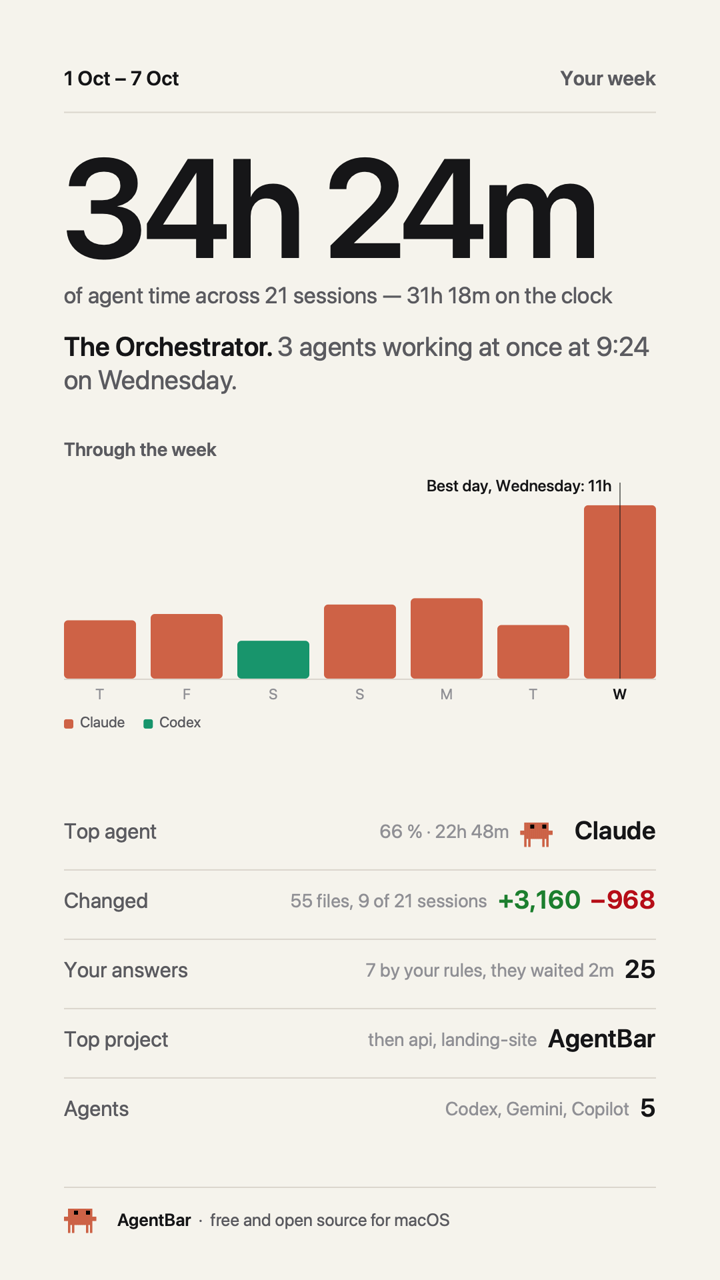
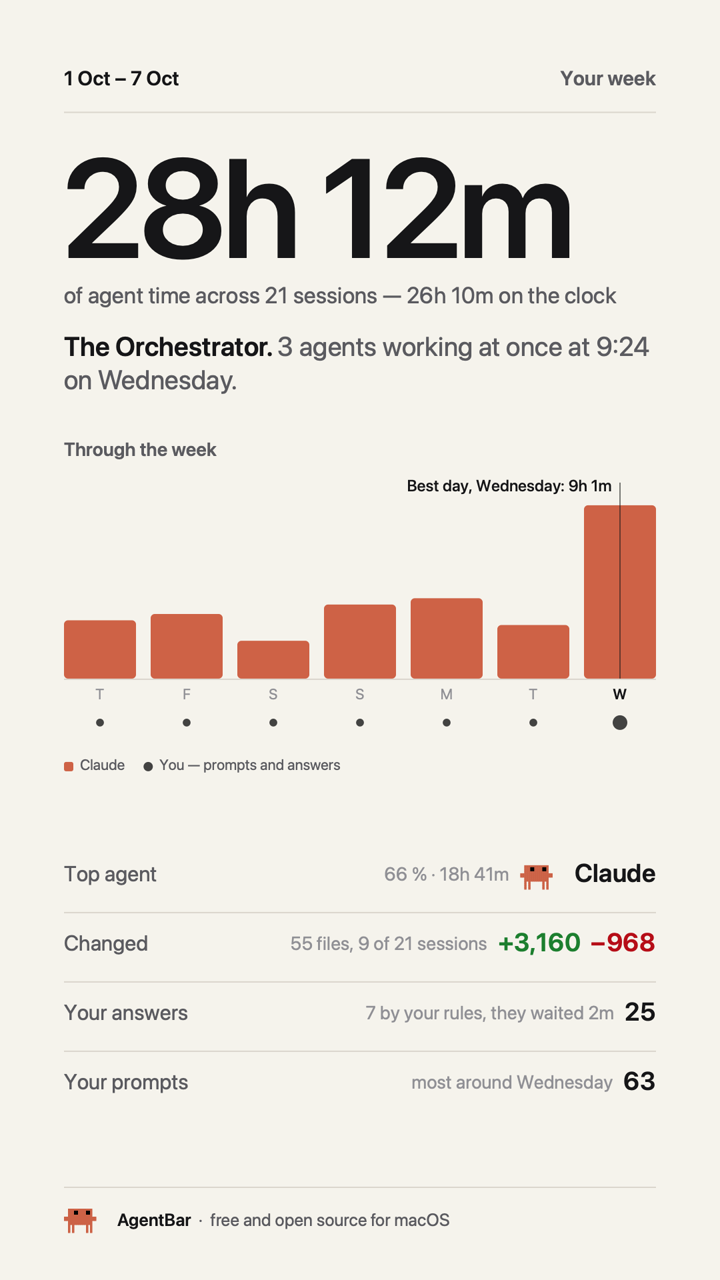
feat(wrap): you through the day, more on the card, and two buttons instead of seven controls

diff --git a/Sources/AgentBar/WrapWindow.swift b/Sources/AgentBar/WrapWindow.swift
@@ -13,9 +13,12 @@ final class WrapWindow: NSObject, NSWindowDelegate {
     private var window: NSWindow?
     private var player: WrapCardView!
     private var rangeControl: NSSegmentedControl!
-    private var namesBox: NSButton!
     private var status: NSTextField!
-    private var exportButtons: [NSButton] = []
+    private var copyButton: NSButton!
+    private var shareButton: NSButton!
+    /// Off by default: a card you post should not name your private repositories.
+    private var includeNames = false
+    private var loading = 0
 
     private(set) var range: DayWrap.Range = .today
 
@@ -27,22 +30,33 @@ final class WrapWindow: NSObject, NSWindowDelegate {
         NSApp.activate(ignoringOtherApps: true)
         window?.makeKeyAndOrderFront(nil)
         window?.makeFirstResponder(player)
-        player.build()
     }
 
     @objc func openFromMenu(_ sender: Any?) { show(.today) }
 
+    /// The recap is read off the main queue — the transcripts behind the agent
+    /// time can be megabytes — and the card builds once it is in.
     private func reload() {
-        let wrap = DayWrap.make(range, history: HistoryStore.read(), ledger: DecisionLedger.read())
-        player.load(wrap)
-        status.stringValue = ""
+        loading += 1
+        let ticket = loading, range = self.range
+        say("")
+        DispatchQueue.global(qos: .userInitiated).async {
+            let wrap = DayWrap.load(range)
+            DispatchQueue.main.async { [weak self] in
+                guard let self, ticket == self.loading else { return }
+                self.player.load(wrap)
+                self.player.build()
+            }
+        }
     }
 
     // MARK: - Build
 
+    private static let barHeight: CGFloat = 60
+
     private func build() {
         let size = WrapCardView.size
-        let barHeight: CGFloat = 92
+        let barHeight = Self.barHeight
         let w = NSWindow(contentRect: NSRect(x: 0, y: 0, width: size.width, height: size.height + barHeight),
                          styleMask: [.titled, .closable, .miniaturizable, .fullSizeContentView],
                          backing: .buffered, defer: false)
@@ -59,58 +73,91 @@ final class WrapWindow: NSObject, NSWindowDelegate {
         player = WrapCardView(frame: NSRect(origin: NSPoint(x: 0, y: barHeight), size: size))
         player.autoresizingMask = [.width, .height]
 
-        rangeControl = NSSegmentedControl(labels: ["Today", "This week"], trackingMode: .selectOne,
+        // The bar: which recap on the left, what to do with it on the right — two
+        // buttons, with every way out of the window behind the second.
+        rangeControl = NSSegmentedControl(labels: ["Today", "This Week"], trackingMode: .selectOne,
                                           target: self, action: #selector(rangeChanged))
-        rangeControl.controlSize = .small
-        namesBox = NSButton(checkboxWithTitle: "Project names in exports", target: nil, action: nil)
-        namesBox.controlSize = .small
-        namesBox.font = .systemFont(ofSize: 11)
-        namesBox.state = .off
-        namesBox.toolTip = "Off by default: a card you post should not name your private repositories."
+        rangeControl.segmentStyle = .rounded
+        rangeControl.controlSize = .regular
+        rangeControl.setWidth(76, forSegment: 0)
+        rangeControl.setWidth(88, forSegment: 1)
 
-        func button(_ title: String, _ symbol: String, _ action: Selector, _ tip: String) -> NSButton {
-            let b = NSButton(title: title, image: NSImage(systemSymbolName: symbol, accessibilityDescription: nil)!,
-                             target: self, action: action)
-            b.imagePosition = .imageLeading
-            b.controlSize = .small
-            b.bezelStyle = .rounded
-            b.toolTip = tip
-            return b
-        }
-        exportButtons = [
-            button("Copy", "doc.on.doc", #selector(copyCard), "Copy the card as an image (⌘C)"),
-            button("Image", "photo", #selector(saveImage), "Save the card as a PNG — story or square"),
-            button("Video", "film", #selector(saveVideo), "Save the card building itself, as a 6-second MP4"),
-            button("GIF", "sparkles.rectangle.stack", #selector(saveGIF), "Save the card building itself, as a looping GIF"),
-            button("Share", "square.and.arrow.up", #selector(share(_:)), "Share the card"),
-        ]
+        copyButton = NSButton(title: "Copy", target: self, action: #selector(copyCard))
+        copyButton.bezelStyle = .rounded
+        copyButton.controlSize = .regular
+        copyButton.toolTip = "Copy the card as an image (⌘C)"
+        shareButton = NSButton(title: "Share", image: NSImage(systemSymbolName: "square.and.arrow.up",
+                                                              accessibilityDescription: nil)!,
+                               target: self, action: #selector(showShareMenu(_:)))
+        shareButton.imagePosition = .imageLeading
+        shareButton.bezelStyle = .rounded
+        shareButton.controlSize = .regular
+        shareButton.toolTip = "Save the card or a video of it, or send it somewhere"
+
         status = NSTextField(labelWithString: "")
         status.font = .systemFont(ofSize: 11)
         status.textColor = .secondaryLabelColor
+        status.lineBreakMode = .byTruncatingTail
+        status.setContentCompressionResistancePriority(.defaultLow, for: .horizontal)
 
-        let top = NSStackView(views: [rangeControl, NSView(), namesBox])
-        top.orientation = .horizontal
-        let buttons = NSStackView(views: exportButtons + [status])
-        buttons.orientation = .horizontal
-        buttons.spacing = 6
-        let bar = NSStackView(views: [top, buttons])
-        bar.orientation = .vertical
-        bar.alignment = .leading
+        let spacer = NSView()
+        spacer.setContentHuggingPriority(.init(1), for: .horizontal)
+        let bar = NSStackView(views: [rangeControl, status, spacer, copyButton, shareButton])
+        bar.orientation = .horizontal
+        bar.alignment = .centerY
         bar.spacing = 8
-        bar.edgeInsets = NSEdgeInsets(top: 12, left: 14, bottom: 12, right: 14)
-        bar.frame = NSRect(x: 0, y: 0, width: size.width, height: barHeight)
-        bar.autoresizingMask = [.width]
-        top.translatesAutoresizingMaskIntoConstraints = false
-        top.widthAnchor.constraint(equalToConstant: size.width - 28).isActive = true
+        bar.setCustomSpacing(12, after: rangeControl)
+        bar.translatesAutoresizingMaskIntoConstraints = false
+
+        // A hairline between the card and the bar, the card's own.
+        let line = NSBox(frame: NSRect(x: 16, y: barHeight - 1, width: size.width - 32, height: 1))
+        line.boxType = .custom
+        line.borderWidth = 0
+        line.fillColor = WrapStyle.hairline
+        line.autoresizingMask = [.width]
 
         let content = NSView(frame: NSRect(x: 0, y: 0, width: size.width, height: size.height + barHeight))
         content.addSubview(player)
         content.addSubview(bar)
+        content.addSubview(line)
+        NSLayoutConstraint.activate([
+            bar.leadingAnchor.constraint(equalTo: content.leadingAnchor, constant: 16),
+            bar.trailingAnchor.constraint(equalTo: content.trailingAnchor, constant: -16),
+            bar.bottomAnchor.constraint(equalTo: content.bottomAnchor),
+            bar.heightAnchor.constraint(equalToConstant: barHeight),
+        ])
         w.contentView = content
         w.contentAspectRatio = NSSize(width: size.width, height: size.height + barHeight)
         window = w
         player.onCopy = { [weak self] in self?.copyCard() }
     }
+
+    /// Everything that takes the card somewhere, in one menu.
+    @objc private func showShareMenu(_ sender: NSButton) {
+        let menu = NSMenu()
+        func item(_ title: String, _ action: Selector, _ symbol: String, _ shape: String? = nil) {
+            let i = NSMenuItem(title: title, action: action, keyEquivalent: "")
+            i.target = self
+            i.image = NSImage(systemSymbolName: symbol, accessibilityDescription: nil)
+            i.representedObject = shape
+            menu.addItem(i)
+        }
+        item("Share…", #selector(shareCard), "square.and.arrow.up")
+        menu.addItem(.separator())
+        item("Save Image…", #selector(saveImageShape(_:)), "photo", "story")
+        item("Save Square Image…", #selector(saveImageShape(_:)), "square", "square")
+        item("Save Video…", #selector(saveVideo), "film")
+        item("Save GIF…", #selector(saveGIF), "sparkles.rectangle.stack")
+        menu.addItem(.separator())
+        let names = NSMenuItem(title: "Include Project Names", action: #selector(toggleNames), keyEquivalent: "")
+        names.target = self
+        names.state = includeNames ? .on : .off
+        names.toolTip = "Off by default: a card you post should not name your private repositories."
+        menu.addItem(names)
+        menu.popUp(positioning: nil, at: NSPoint(x: 0, y: sender.bounds.height + 4), in: sender)
+    }
+
+    @objc private func toggleNames() { includeNames.toggle() }
 
     // MARK: - Window
 
@@ -120,7 +167,6 @@ final class WrapWindow: NSObject, NSWindowDelegate {
     @objc private func rangeChanged() {
         range = rangeControl.selectedSegment == 0 ? .today : .week
         reload()
-        player.build()
     }
 
     // MARK: - Export
@@ -128,7 +174,7 @@ final class WrapWindow: NSObject, NSWindowDelegate {
     /// The recap as it leaves the Mac: without project names and tasks unless the
     /// box says otherwise.
     private var exported: DayWrap {
-        namesBox.state == .on ? player.wrap : player.wrap.shareSafe()
+        includeNames ? player.wrap : player.wrap.shareSafe()
     }
 
     @objc private func copyCard() {
@@ -137,20 +183,6 @@ final class WrapWindow: NSObject, NSWindowDelegate {
         pb.clearContents()
         pb.setData(data, forType: .png)
         say("Card copied — paste it anywhere.")
-    }
-
-    @objc private func saveImage() {
-        let menu = NSMenu()
-        for (title, shape) in [("Story card (1080 × 1920)", WrapExport.Shape.story),
-                               ("Square card (1080 × 1080)", .square)] {
-            let item = NSMenuItem(title: title, action: #selector(saveImageShape(_:)), keyEquivalent: "")
-            item.target = self
-            item.representedObject = shape == .story ? "story" : "square"
-            menu.addItem(item)
-        }
-        if let b = exportButtons.first(where: { $0.action == #selector(saveImage) }) {
-            menu.popUp(positioning: nil, at: NSPoint(x: 0, y: b.bounds.height + 4), in: b)
-        }
     }
 
     @objc private func saveImageShape(_ sender: NSMenuItem) {
@@ -182,11 +214,11 @@ final class WrapWindow: NSObject, NSWindowDelegate {
         }
     }
 
-    @objc private func share(_ sender: NSButton) {
+    @objc private func shareCard() {
         guard let rep = WrapExport.card(exported, shape: .story), let data = WrapExport.png(rep) else { return }
         let url = FileManager.default.temporaryDirectory.appendingPathComponent(fileName("png"))
         guard (try? data.write(to: url)) != nil else { return }
-        NSSharingServicePicker(items: [url]).show(relativeTo: sender.bounds, of: sender, preferredEdge: .minY)
+        NSSharingServicePicker(items: [url]).show(relativeTo: shareButton.bounds, of: shareButton, preferredEdge: .minY)
     }
 
     private func fileName(_ ext: String, _ suffix: String = "") -> String {
@@ -205,13 +237,13 @@ final class WrapWindow: NSObject, NSWindowDelegate {
         panel.directoryURL = FileManager.default.urls(for: .desktopDirectory, in: .userDomainMask).first
         panel.beginSheetModal(for: window) { [weak self] response in
             guard response == .OK, let url = panel.url else { return }
-            self?.exportButtons.forEach { $0.isEnabled = false }
+            self?.setBusy(true)
             self?.say("Rendering…")
             DispatchQueue.global(qos: .userInitiated).async {
                 let error: Error?
                 do { try work(url); error = nil } catch let e { error = e }
                 DispatchQueue.main.async {
-                    self?.exportButtons.forEach { $0.isEnabled = true }
+                    self?.setBusy(false)
                     if let error {
                         self?.say("Not saved: \(error.localizedDescription)")
                     } else {
@@ -223,7 +255,12 @@ final class WrapWindow: NSObject, NSWindowDelegate {
         }
     }
 
-    private func say(_ s: String) { status.stringValue = s }
+    private func say(_ s: String) { status?.stringValue = s }
+
+    private func setBusy(_ busy: Bool) {
+        copyButton.isEnabled = !busy
+        shareButton.isEnabled = !busy
+    }
 
     /// The window with its card finished, drawn to a file without putting it on
     /// screen.

diff --git a/Sources/AgentBar/WrapRenderer.swift b/Sources/AgentBar/WrapRenderer.swift
@@ -199,11 +199,24 @@ enum WrapRenderer {
             S.text(mark.label, font, S.ink, x: left ? mark.x + 12 * f.u : mark.x - 12 * f.u - tw, y: lineTop - 6 * f.u,
                    width: tw + 4 * f.u, alpha: CGFloat(d))
         }
-        // Which colour is whom: the agents that own a bar, in the order of the day.
+        // You, under the agents: a dot per hour you typed a prompt or answered a
+        // request, bigger the more you did — the day's other half.
+        let maxYou = w.youBins.max() ?? 0
+        let youY = bottom + (f.square ? 50 : 66) * f.u
+        if maxYou > 0 {
+            for (i, c) in w.youBins.enumerated() where c > 0 {
+                let d = f.a(0.9 + Double(i) * (today ? 0.015 : 0.05), 0.4)
+                let r = (3 + 8 * CGFloat((Double(c) / Double(maxYou)).squareRoot())) * f.u * CGFloat(S.easeOut(d))
+                S.circle(CGPoint(x: f.m + CGFloat(i) * (bw + gap) + bw / 2, y: youY), r, S.ink.withAlphaComponent(0.8))
+            }
+        }
+
+        // Which colour is whom: the agents that own a bar, in the order of the day,
+        // and you.
         var seen: [String] = []
         for a in w.binAgents where !a.isEmpty && !seen.contains(a) { seen.append(a) }
         var lx = f.m
-        let ly = bottom + (f.square ? 44 : 56) * f.u
+        let ly = (maxYou > 0 ? youY + 22 * f.u : bottom) + (f.square ? 44 : 56) * f.u - (maxYou > 0 ? 24 * f.u : 0)
         let lf = S.font(22 * f.u, .regular)
         for id in seen.prefix(5) {
             let name = Agent.byID(id).name
@@ -215,7 +228,12 @@ enum WrapRenderer {
             S.text(name, lf, S.secondary, x: lx, y: ly, width: 300 * f.u, alpha: CGFloat(la))
             lx += S.measure(name, lf).width + 28 * f.u
         }
-        return ly + (seen.isEmpty ? 0 : 40 * f.u) + (f.square ? 10 : 30) * f.u
+        if maxYou > 0, lx + 140 * f.u <= f.W - f.m {
+            S.circle(CGPoint(x: lx + 7 * f.u, y: ly + 12 * f.u), 7 * f.u, S.ink.withAlphaComponent(0.8 * CGFloat(la)))
+            S.text("You — prompts and answers", lf, S.secondary, x: lx + 24 * f.u, y: ly, width: 400 * f.u,
+                   alpha: CGFloat(la))
+        }
+        return ly + (seen.isEmpty && maxYou == 0 ? 0 : 40 * f.u) + (f.square ? 10 : 30) * f.u
     }
 
     // MARK: Rows — the rest of the day
@@ -256,6 +274,19 @@ enum WrapRenderer {
             else if let fast = w.waits.fastest { bits.append("fastest \(S.shortWait(fast))") }
             out.append(Tile(caption: "Your answers", value: S.grouped(decided),
                             detail: bits.joined(separator: ", "), color: S.ink))
+        }
+        if w.prompts > 0 {
+            let at = w.yourBin.map { "most around \(hourLabel(w, $0))" } ?? ""
+            out.append(Tile(caption: "Your prompts", value: S.grouped(w.prompts), detail: at, color: S.ink))
+        }
+        if let l = w.longest, l.seconds >= 60 {
+            out.append(Tile(caption: "Longest run", value: HistoryDigest.duration(l.seconds),
+                            detail: l.task.isEmpty ? Agent.byID(l.agent).name : "“\(Handoff.clip(l.task, 60))”",
+                            color: S.ink))
+        }
+        if let b = w.busiestBin {
+            out.append(Tile(caption: w.range == .today ? "Busiest hour" : "Busiest day", value: hourLabel(w, b),
+                            detail: "\(HistoryDigest.duration(w.bins[b])) of agent work", color: S.ink))
         }
         if let p = w.projects.first {
             let rest = w.projects.dropFirst().map(\.name)
@@ -333,6 +364,12 @@ enum WrapRenderer {
     }
 
     // MARK: Footer
+
+    /// "14:00–15:00" for a day's bin, "Tuesday" for a week's.
+    static func hourLabel(_ w: DayWrap, _ i: Int) -> String {
+        guard w.range == .today else { return weekday(w.binStart(i), short: false) }
+        return String(format: "%02d:00–%02d:00", i, (i + 1) % 24)
+    }
 
     private static func footerHeight(_ f: Frame) -> CGFloat { (f.square ? 90 : 150) * f.u }
 

diff --git a/Tests/AgentBarTests/WrapRendererTests.swift b/Tests/AgentBarTests/WrapRendererTests.swift
@@ -64,7 +64,7 @@ import Testing
 
     @Test func tilesAreOnlyTheFactsThatExist() {
         let facts = WrapRenderer.tileFacts(wrap).map(\.caption)
-        #expect(Array(facts.prefix(4)) == ["Top agent", "Changed", "Your answers", "Top project"])
+        #expect(Array(facts.prefix(4)) == ["Top agent", "Changed", "Your answers", "Your prompts"])
         var bare = wrap
         bare.changeMeasured = 0
         bare.waits = DayWrap.Waits()

diff --git a/README.md b/README.md
@@ -343,33 +343,39 @@ don't use. To undo a single change, copy the `.agentbar-bak-…` file back over 
 ## Your Day
 
 <p align="center">
-  <img src="docs/assets/your-day.gif?v=2026-10-07c" width="300" alt="AgentBar's Your Day card building itself on plain paper: the date, 11h of agent time counting up, 'The Orchestrator. 3 agents working at once at 9:24.', the day's hours as bars in each agent's colour with the peak marked by a thin line, and a list: top agent Claude, changed +3,160 −968, your answers 25, top project">
+  <img src="docs/assets/your-day.gif?v=2026-10-07d" width="300" alt="AgentBar's Your Day card building itself on plain paper: the date, 11h of agent time counting up, 'The Orchestrator. 3 agents working at once at 9:24.', the day's hours as bars in each agent's colour with the peak marked by a thin line, and a list: top agent Claude, changed +3,160 −968, your answers 25, top project">
   &nbsp;
-  <img src="docs/assets/your-day.png?v=2026-10-07c" width="300" alt="The same card for a week: 34h 24m of agent time, seven days as bars with the best day marked, and the same list">
+  <img src="docs/assets/your-day.png?v=2026-10-07d" width="300" alt="The same card for a week: 34h 24m of agent time, seven days as bars with the best day marked, and the same list">
 </p>
 
 **Your Day…** — in the menu bar's menu and the island's ⋯ — puts your day with
 your agents on one card, the way a year-in-music recap does, built to be read in a
 glance and made to be shared. **This week** switches it to the last seven days.
 
-- **Agent time** first, as the one big number, and **who you were today** under it
+- **Agent time** first, as the one big number — the time agents were actually
+  *working*, not how long their windows were open — and **who you were today** under it
   as a sentence — The Orchestrator, The Marathoner, The Night Owl, The Delegator,
   The Quick Draw… — with the number that earned it.
 - **The day as bars**, hour by hour, in the colour of the agent that had each
-  hour, with **your peak** — the most agents at once — marked by a thin line. A
-  week marks its best day instead.
+  hour, with **your peak** — the most agents at once — marked by a thin line, and
+  **you** underneath: a dot for every hour you typed prompts or answered requests,
+  bigger the more you did. A week marks its best day instead.
 - Then a plain list: **your top agent** and its share, **what changed in your
   repos**, **your answers** (how many your rules gave, how long the agents waited
-  on you) and **where the work went**. Flat paper and ink — the agents' colours
+  on you), **your prompts**, **the longest run**, **the busiest hour** and **where
+  the work went**. Flat paper and ink — the agents' colours
   appear on their bars and nowhere else.
-- **Honest numbers, as everywhere in AgentBar**: a figure measured on some sessions
-  says so ("9 of 21 sessions"), and a fact with nothing behind it gets no row
-  rather than a zero. Lines are *what changed in the repo* while the agents ran,
+- **Honest numbers, as everywhere in AgentBar**: working time comes from Claude
+  Code's own transcript (every prompt and every step is stamped; a silence of more
+  than five minutes inside a turn is waiting, not work) or, for other agents, from
+  the stretches AgentBar saw them in thinking or tool. A session with neither is
+  counted but gets no time. A figure measured on some sessions says so ("9 of 21
+  sessions"), and a fact with nothing behind it gets no row rather than a zero. Lines are *what changed in the repo* while the agents ran,
   not a claim about who wrote them.
-- **Share it**: copy the card (⌘C), save it as a story (1080 × 1920) or square PNG,
-  save it building itself as a 6-second MP4 or a looping GIF, or hand it to the
-  share sheet. **Project names stay out of everything you export** unless you tick
-  the box.
+- **Share it**: **Copy** (⌘C) puts the card on the clipboard; **Share** saves it
+  as a story (1080 × 1920) or square PNG, saves it building itself as a 6-second MP4
+  or a looping GIF, or hands it to the share sheet. **Project names stay out of
+  everything you export** unless you tick **Include Project Names** in that menu.
 - It never opens by itself. It builds once when it opens, then holds still — a click
   or Space builds it again, Esc closes — and Reduce Motion shows it finished.
 - `agentbar://day` and `agentbar://week` open it from Shortcuts or Raycast.
